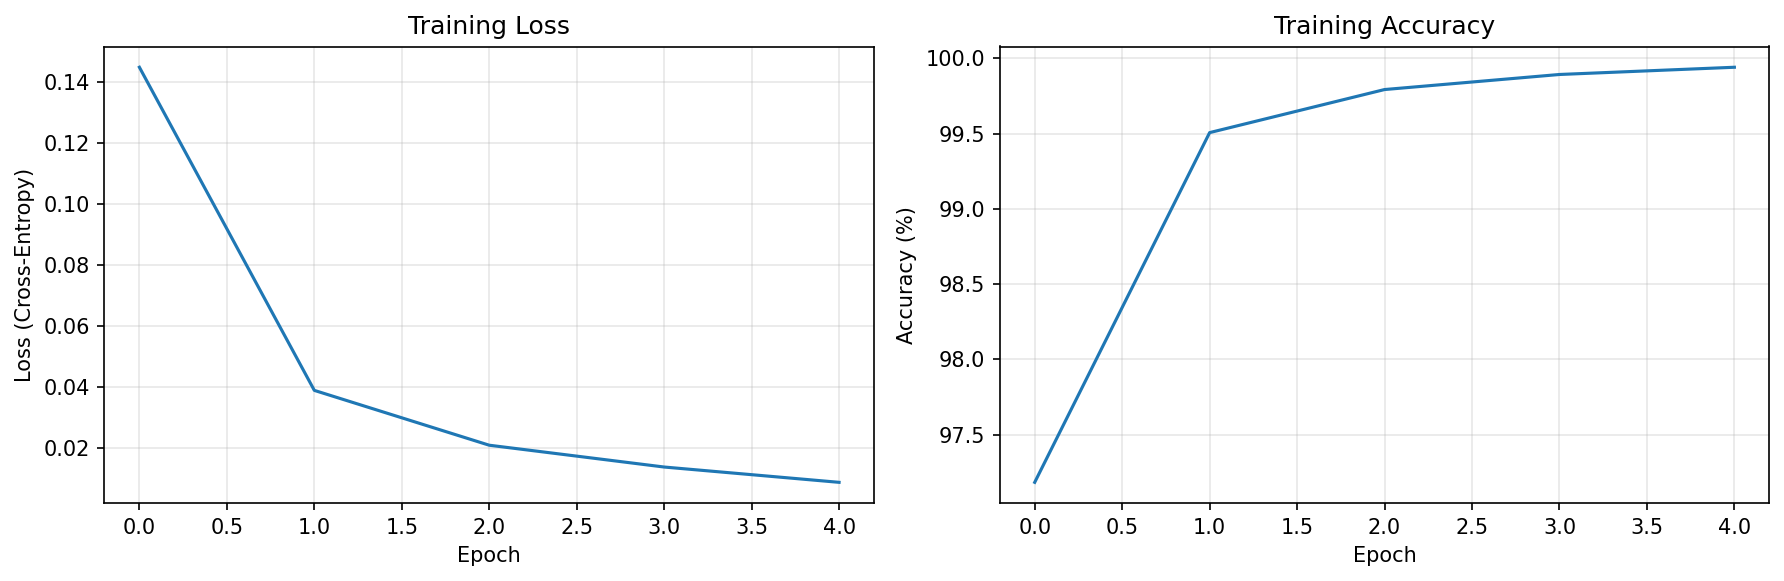
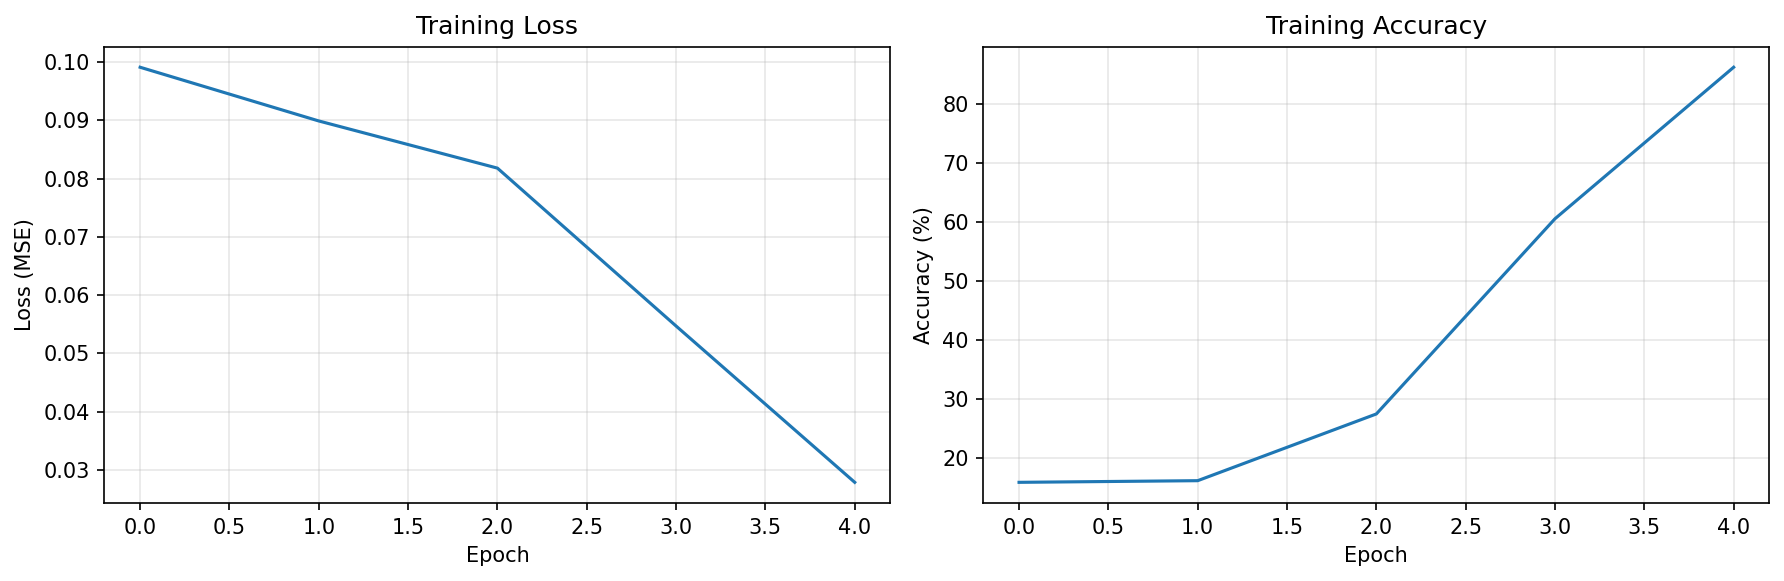
changed derivative of MSE in backpropegation

diff --git a/mnist.py b/mnist.py
@@ -148,9 +148,14 @@ class NeuralNetwork:
         # Compute errors for output layer neurons
         output_error = []
         for i, neuron in enumerate(output_layer.neurons):
-            # (neuron.output - target) is gradient of MSE w.r.t. neuron's output
-            # multiply by derivative of activation (chain rule)
-            error = (neuron.output - targets[i]) * neuron.activate_derivative(neuron.z)
+            # Compute error term for the output neuron using the full derivative of MSE.
+            # MSE = (1/N) * Σ (y_hat - y)^2  →  dL/dy_hat = 2 * (y_hat - y) / N
+            # Here, N = number of outputs (e.g., 10 for MNIST classification).
+            # Reference:
+            # - https://en.wikipedia.org/wiki/Mean_squared_error
+            # - https://ml-cheatsheet.readthedocs.io/en/latest/loss_functions.html#mean-squared-error
+            N = len(targets)
+            error = (2 / N) * (neuron.output - targets[i]) * neuron.activate_derivative(neuron.z)
             output_error.append(error)
         errors[-1] = np.array(output_error)  # store array of errors for output layer
 

diff --git a/second_painter.py b/second_painter.py
@@ -372,15 +372,15 @@ def train_model():
     print("Architecture: 784 -> 128 -> 64 -> 10")
     
     nn = OptimizedNeuralNetwork(
-        layer_sizes=[784, 128, 64, 10],
-        activations=['relu', 'relu', 'relu']  # Use relu for output, apply softmax in prediction
+        layer_sizes=[784, 64, 64, 10],
+        activations=['relu', 'relu', 'softmax']  # Use relu for output, apply softmax in prediction
     )
     
     # Train
     print("\nTraining...")
     nn.train_batch(
         X_train, y_train,
-        epochs=15,
+        epochs=5,
         learning_rate=0.1,
         batch_size=32,
         X_val=X_test,

diff --git a/faster_mnist.py b/faster_mnist.py
@@ -326,7 +326,7 @@ def main():
     
     # Load data with binarization
     X_train, y_train, X_test, y_test, y_test_labels = load_and_preprocess_mnist(
-        n_train=50000, 
+        n_train=5000, 
         n_test=10000,
         binarize=True,  # Convert to pure black/white
         threshold=0.5
@@ -338,7 +338,7 @@ def main():
     print("Activations: ReLU -> ReLU -> Softmax")
     
     nn = OptimizedNeuralNetwork(
-        layer_sizes=[784, 128, 64, 10],
+        layer_sizes=[784, 64, 64, 10],
         activations=['relu', 'relu', 'softmax']
     )
     
